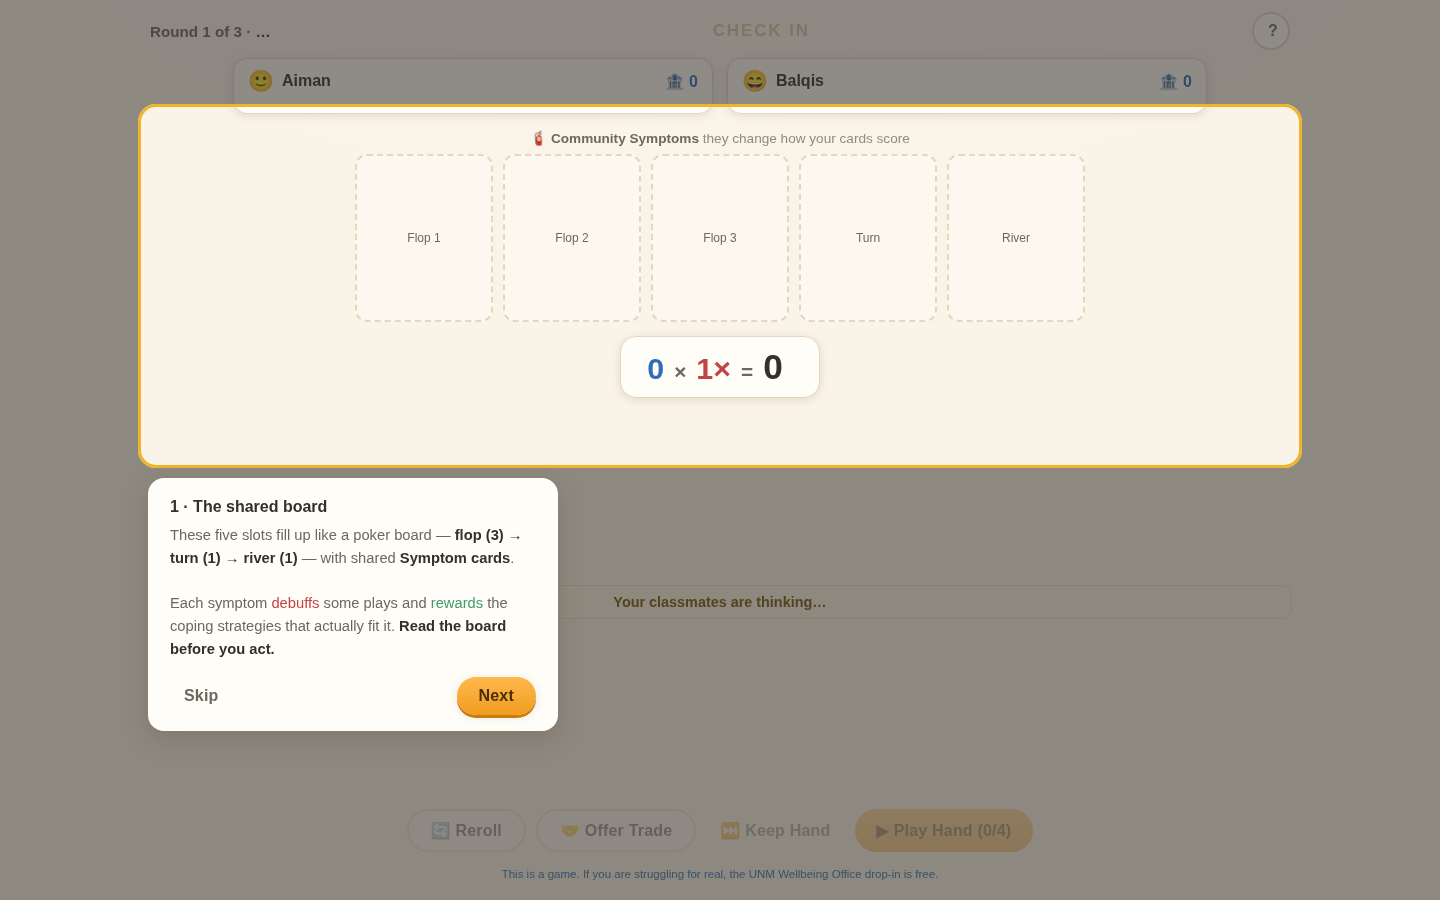
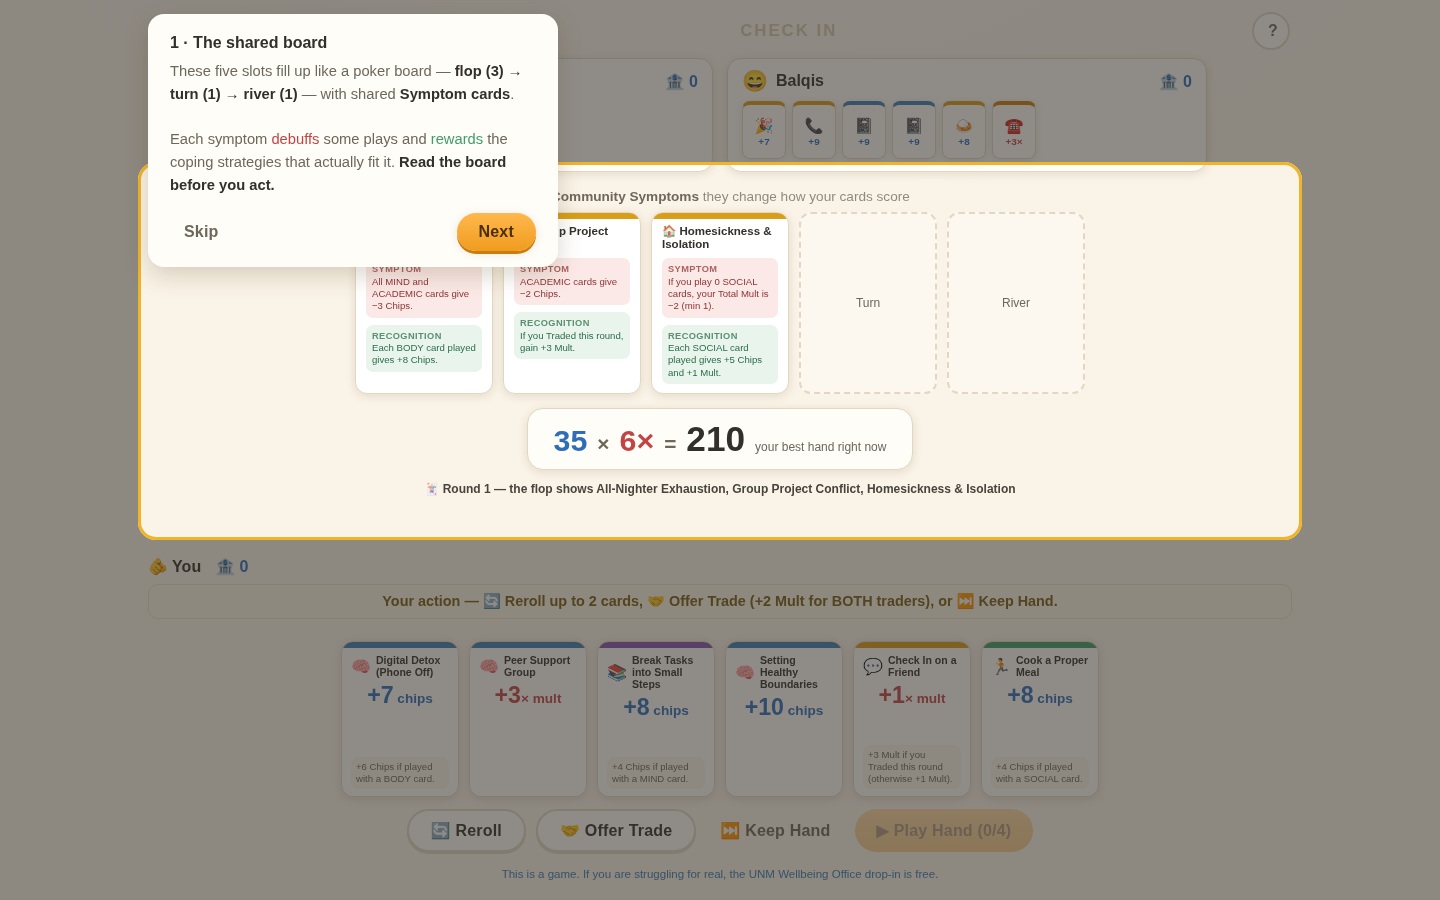
polish: auto-height symptom cards, tutorial popup anchored by real height, static score badges in modal — VLM-verified clean

diff --git a/js/ui/tutorial.js b/js/ui/tutorial.js
@@ -65,23 +65,31 @@
         function position() {
           var step = STEPS[idx];
           var target = document.querySelector(step.target);
+          // set the content first so offsetHeight is accurate for placement
+          stepNum.textContent = step.title;
+          textEl.innerHTML = step.html;
+          btnNext.textContent = idx === STEPS.length - 1 ? "Let's play!" : 'Next';
           if (target) {
             var r = target.getBoundingClientRect();
             Object.assign(spotlight.style, {
               top: (r.top - 10) + 'px', left: (r.left - 10) + 'px',
               width: (r.width + 20) + 'px', height: (r.height + 20) + 'px',
             });
-            // place the coach card under the spotlight if there's room, else above
+            // Place the coach card below the spotlight if there is room
+            // before the player's hand zone; otherwise above the spotlight,
+            // anchored by the card's real height so it never dips into it.
+            var cardH = card.offsetHeight || 230;
             var below = r.bottom + 20;
-            var roomBelow = window.innerHeight - below > 240;
-            card.style.top = roomBelow
-              ? Math.min(below, window.innerHeight - 260) + 'px'
-              : Math.max(16, r.top - 210) + 'px';
+            var handZone = document.getElementById('zone-player');
+            var limit = handZone ? handZone.getBoundingClientRect().top - 16
+                                 : window.innerHeight - 20;
+            if (limit - below > cardH + 12) {
+              card.style.top = below + 'px';
+            } else {
+              card.style.top = Math.max(14, r.top - cardH - 14) + 'px';
+            }
             card.style.left = Math.max(16, Math.min(r.left, window.innerWidth - 420)) + 'px';
           }
-          stepNum.textContent = step.title;
-          textEl.innerHTML = step.html;
-          btnNext.textContent = idx === STEPS.length - 1 ? "Let's play!" : 'Next';
         }
 
         function finish() {

diff --git a/css/board.css b/css/board.css
@@ -72,6 +72,7 @@
   display: flex;
   gap: 10px;
   justify-content: center;
+  align-items: stretch;
   flex-wrap: wrap;
 }
 
@@ -150,13 +151,16 @@
 
 /* ---- scoring overlay content ------------------------------------------------- */
 .score-wrap { display: flex; gap: 22px; align-items: flex-start; flex-wrap: wrap; }
-.score-cards { display: flex; gap: 8px; flex-wrap: wrap; max-width: 260px; }
-.score-cards .toolkit-card { width: 100px; height: 134px; cursor: default; }
+.score-cards { display: flex; gap: 14px; flex-wrap: wrap; max-width: 290px; justify-content: center; align-items: stretch; }
+.score-cards .toolkit-card { width: 96px; height: auto; min-height: 142px; cursor: default; }
 .score-cards .toolkit-card:hover { transform: none; }
 .score-cards .tk-final {
-  position: absolute; bottom: 4px; right: 6px;
+  position: static; text-align: right;
+  margin-top: 3px; white-space: nowrap;
   font-size: 0.66rem; font-weight: 900; color: var(--ink-soft);
+  border-top: 1px dashed var(--line); padding-top: 2px;
 }
+.score-cards .tk-bonus { margin-bottom: 0; }
 .breakdown { flex: 1 1 300px; min-width: 260px; }
 .breakdown-title { font-size: 0.8rem; font-weight: 900; text-transform: uppercase; letter-spacing: 0.06em; color: var(--ink-soft); margin-bottom: 6px; }
 .bd-line {
@@ -207,7 +211,7 @@
 @media (max-width: 720px) {
   .toolkit-card { width: 92px; height: 132px; }
   .tk-value { font-size: 1.15rem; }
-  .symptom-card, .community-slot { width: 108px; height: 148px; }
+  .symptom-card, .community-slot { width: 108px; min-height: 148px; }
   .sym-row { font-size: 0.53rem; }
   .opponent { min-width: 100%; }
 }

diff --git a/tests/run.js b/tests/run.js
@@ -397,7 +397,8 @@ process.stdout.write('\n=== DECK & ROUND STATE MACHINE ===\n');
     ok(a.hand.some(function (c) { return c.uid === take.uid; }), 'receiver got the card');
     ok(b.hand.some(function (c) { return c.uid === give.uid; }), 'initiator passed the card on');
     eq(a.tradesThisRound, 1); eq(b.tradesThisRound, 1);
-    var r = S.scoreHand({ played: [a.hand[0]], board: [], trades: a.tradesThisRound });
+    var probe = { uid: 'probe-mult', def: CheckIn.cardById('T01') };   // +12 chips, no mult
+    var r = S.scoreHand({ played: [probe], board: [], trades: a.tradesThisRound });
     eq(r.mult, 3, '1× base + 2× trade bonus');
   });
 
@@ -407,7 +408,8 @@ process.stdout.write('\n=== DECK & ROUND STATE MACHINE ===\n');
     g.doTrade(0, 1, g.players[0].hand[0].uid, g.players[1].hand[0].uid);   // 0 initiates
     g.doTrade(2, 0, g.players[2].hand[0].uid, g.players[0].hand[0].uid);   // 0 receives (free)
     eq(g.players[0].tradesThisRound, 2);
-    var r = S.scoreHand({ played: [g.players[0].hand[0]], board: [], trades: g.players[0].tradesThisRound });
+    var probe = { uid: 'probe-mult2', def: CheckIn.cardById('T01') };
+    var r = S.scoreHand({ played: [probe], board: [], trades: g.players[0].tradesThisRound });
     eq(r.mult, 5, '1× + 2×2 trade');
   });
 

diff --git a/css/cards.css b/css/cards.css
@@ -87,7 +87,8 @@
 /* ---- symptom card (community board) -------------------------------------- */
 .symptom-card {
   width: 138px;
-  height: 168px;
+  min-height: 168px;
+  height: auto;                 /* long recognition text may grow the card */
   padding: 9px 10px;
   display: flex;
   flex-direction: column;
@@ -122,7 +123,8 @@
 
 /* empty community slot */
 .community-slot {
-  width: 138px; height: 168px;
+  width: 138px;
+  min-height: 168px;
   border-radius: var(--radius);
   border: 2px dashed var(--line);
   background: rgba(255, 255, 255, 0.35);

diff --git a/js/ui/render.js b/js/ui/render.js
@@ -86,9 +86,9 @@
       if (opts.dim) e.classList.add('dim');
       if (opts.finalChips != null) {
         var fin = el('div', 'tk-final');
-        fin.textContent = (opts.finalChips ? '+' + opts.finalChips + 'chips' : '') +
+        fin.textContent = (opts.finalChips ? '+' + opts.finalChips + ' chips' : '') +
           (opts.finalMult ? ' +' + opts.finalMult + '×' : '');
-        if (!fin.textContent) fin.textContent = '0';
+        if (!fin.textContent) fin.textContent = '0 chips';
         e.appendChild(fin);
       }
       if (opts.onclick) {
